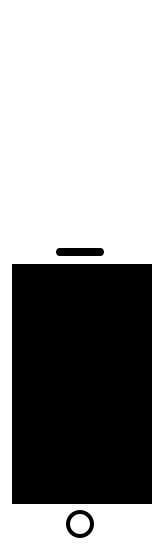
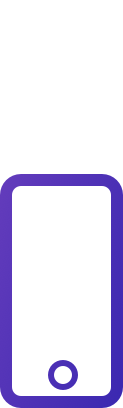
Add color illustrations, remove unused images, adjust colors.

diff --git a/index.html b/index.html
@@ -88,7 +88,7 @@
                                     <path class="svg-icon" d="M2.64509244,14.6383912 L5.22322051,14.6383912 L5.22322051,6.89284629 L2.64509244,6.89284629 L2.64509244,14.6383912 Z M5.39063143,4.50445058 C5.3794707,3.74552111 4.83259505,3.16516327 3.95089757,3.16516327 C3.06920009,3.16516327 2.48884225,3.74552111 2.48884225,4.50445058 C2.48884225,5.2410586 3.04687863,5.84373789 3.91741538,5.84373789 L3.92857611,5.84373789 C4.83259505,5.84373789 5.39063143,5.2410586 5.39063143,4.50445058 Z M9.21876099,7.98468694 L9.21876099,8.02007977 L9.19643953,8.02007977 C9.20374547,8.00839028 9.21118425,7.99658919 9.21876099,7.98468694 Z M9.21876099,7.98468694 L9.21876099,6.89284629 L6.64063292,6.89284629 C6.64063292,6.89284629 6.6741151,7.61829358 6.64063292,14.6383912 L9.21876099,14.6383912 L9.21876099,10.3080289 C9.21876099,10.0848144 9.22992172,9.8504391 9.29688608,9.68302818 C9.48661845,9.22543835 9.9107261,8.74552707 10.6250127,8.74552707 C11.5513531,8.74552707 11.9196571,9.4486529 11.9196571,10.4977613 L11.9196571,14.6383912 L14.4977851,14.6383912 L14.4977851,10.1964217 C14.4977851,7.81918668 13.2254622,6.71427464 11.5290316,6.71427464 C10.1752992,6.71427464 9.55841646,7.45112421 9.21876099,7.98468694 Z M17.1428776,3.4999851 L17.1428776,14.2142836 C17.1428776,15.9888393 15.7031437,17.4285731 13.928588,17.4285731 L3.21428955,17.4285731 C1.43973386,17.4285731 0,15.9888393 0,14.2142836 L0,3.4999851 C0,1.72542941 1.43973386,0.285695553 3.21428955,0.285695553 L13.928588,0.285695553 C15.7031437,0.285695553 17.1428776,1.72542941 17.1428776,3.4999851 Z" id="icon-linkedin" fill="#FFFFFF"></path>
                             </svg>
                         </span>
-                        <a href="#" class="title">linkedin.com/in/guerrix</a>
+                        <a href="http://linkedin.com/in/guerrix" class="title">linkedin.com/in/guerrix</a>
                     </li>
                     <li>
                         <span class="icon">
@@ -96,7 +96,7 @@
                                 <path class="svg-icon" d="M8.57143879,0.285695553 C13.3035873,0.285695553 17.1428776,4.12498584 17.1428776,8.85713434 C17.1428776,12.640621 14.6875175,15.8549105 11.2834956,16.9933048 C10.8482272,17.0714298 10.691977,16.8035724 10.691977,16.5803578 C10.691977,16.3013396 10.7031378,15.3749993 10.7031378,14.2254443 C10.7031378,13.4218719 10.4352803,12.9084785 10.1227799,12.640621 C12.0312643,12.4285672 14.0401953,11.7031199 14.0401953,8.41070524 C14.0401953,7.47320412 13.7053735,6.71427464 13.1584978,6.11159535 C13.2477836,5.8883808 13.5379626,5.01784405 13.069212,3.83480693 C12.3549254,3.61159237 10.7142985,4.71650441 10.7142985,4.71650441 C10.0334941,4.52677204 9.29688608,4.42632549 8.57143879,4.42632549 C7.8459915,4.42632549 7.10938348,4.52677204 6.42857909,4.71650441 C6.42857909,4.71650441 4.78795214,3.61159237 4.07366557,3.83480693 C3.60491501,5.01784405 3.89509393,5.8883808 3.98437975,6.11159535 C3.4375041,6.71427464 3.10268227,7.47320412 3.10268227,8.41070524 C3.10268227,11.6919592 5.10045251,12.4285672 7.00893693,12.640621 C6.76340092,12.8638355 6.54018637,13.2433003 6.46206127,13.7901759 C5.97098926,14.0133905 4.72098777,14.3928552 3.97321902,13.0758894 C3.50446846,12.2611563 2.65625317,12.1941919 2.65625317,12.1941919 C1.8191986,12.1830312 2.60044953,12.7187461 2.60044953,12.7187461 C3.15848591,12.9754428 3.54911137,13.9687476 3.54911137,13.9687476 C4.05134412,15.4977673 6.43973982,14.9843738 6.43973982,14.9843738 C6.43973982,15.6986604 6.45090055,16.368304 6.45090055,16.5803578 C6.45090055,16.8035724 6.29465036,17.0714298 5.85938198,16.9933048 C2.45536007,15.8549105 0,12.640621 0,8.85713434 C0,4.12498584 3.83929029,0.285695553 8.57143879,0.285695553 Z M3.24777173,12.5959781 C3.22545027,12.640621 3.15848591,12.6517817 3.10268227,12.6182995 C3.0357179,12.5848174 3.00223572,12.5290137 3.02455718,12.4843708 C3.04687863,12.4508886 3.10268227,12.4397279 3.16964664,12.4620494 C3.236611,12.4955315 3.27009318,12.5513352 3.24777173,12.5959781 Z M3.59375428,12.9754428 C3.54911137,13.0200857 3.47098628,12.9977643 3.41518264,12.9419606 C3.359379,12.8749963 3.34821828,12.7968712 3.39286119,12.763389 C3.4375041,12.7187461 3.51562919,12.7410675 3.57143283,12.7968712 C3.62723647,12.8638355 3.63839719,12.9419606 3.59375428,12.9754428 Z M3.92857611,13.4776756 C3.8839332,13.5111577 3.79464738,13.4776756 3.73884374,13.3995505 C3.6830401,13.3214254 3.6830401,13.2321396 3.73884374,13.1986574 C3.79464738,13.1540145 3.8839332,13.1874966 3.92857611,13.2656217 C3.98437975,13.3437468 3.98437975,13.4330327 3.92857611,13.4776756 Z M4.39732667,13.9464261 C4.35268376,14.0022298 4.25223721,13.991069 4.17411212,13.9129439 C4.09598703,13.8459796 4.07366557,13.745533 4.12946921,13.7008901 C4.17411212,13.6450865 4.27455867,13.6562472 4.35268376,13.7343723 C4.41964813,13.8013367 4.44196958,13.9017832 4.39732667,13.9464261 Z M5.03348814,14.2254443 C5.01116669,14.2924087 4.91072014,14.3258909 4.82143432,14.2924087 C4.72098777,14.2700872 4.65402341,14.1919621 4.67634486,14.1249978 C4.69866632,14.0580334 4.79911286,14.0245512 4.88839868,14.0468727 C4.98884523,14.0803549 5.0558096,14.1584799 5.03348814,14.2254443 Z M5.73661398,14.281248 C5.73661398,14.3482123 5.65848889,14.404016 5.55804234,14.404016 C5.44643506,14.4151767 5.36830997,14.359373 5.36830997,14.281248 C5.36830997,14.2142836 5.44643506,14.1584799 5.54688161,14.1584799 C5.64732816,14.1473192 5.73661398,14.2031229 5.73661398,14.281248 Z M6.38393618,14.1696407 C6.39509691,14.236605 6.32813254,14.3035694 6.227686,14.3258909 C6.12723945,14.3482123 6.03795363,14.3035694 6.0267929,14.236605 C6.01563217,14.1584799 6.08259654,14.0915156 6.18304309,14.0691941 C6.28348963,14.0580334 6.37277545,14.1026763 6.38393618,14.1696407 Z" id="icon-github" fill="#FFFFFF"></path>
                             </svg>
                         </span>
-                        <a href="#" class="title">github.com/guerrix</a>
+                        <a href="http://github.com/guerrix" class="title">github.com/guerrix</a>
                     </li>
                     <li>
                         <span class="icon">
@@ -104,7 +104,7 @@
                                 <path class="svg-icon" d="M18.0803787,2.41069928 C17.5893067,3.12498584 16.9754667,3.76114732 16.2723408,4.27454079 C16.2835016,4.43079097 16.2835016,4.58704116 16.2835016,4.74329134 C16.2835016,9.50892203 12.6562651,15 6.0267929,15 C3.98437975,15 2.08705606,14.4084814 0.491072014,13.3816945 C0.781250931,13.4151767 1.06026912,13.4263374 1.36160877,13.4263374 C3.04687863,13.4263374 4.59821977,12.8571403 5.83706053,11.886157 C4.25223721,11.8526748 2.92411063,10.8147272 2.4665208,9.38615402 C2.68973535,9.4196362 2.9129499,9.44195766 3.14732518,9.44195766 C3.47098628,9.44195766 3.79464738,9.39731475 4.09598703,9.31918966 C2.44419934,8.98436783 1.20535858,7.53347324 1.20535858,5.78123901 L1.20535858,5.7365961 C1.68526987,6.00445356 2.24330625,6.17186448 2.83482481,6.19418593 C1.86384151,5.54686373 1.22768003,4.4419517 1.22768003,3.19195021 C1.22768003,2.52230655 1.40625168,1.90846654 1.71875205,1.37275161 C3.49330774,3.56025422 6.16072163,4.98882735 9.15179662,5.14507754 C9.09599299,4.87722008 9.0625108,4.59820189 9.0625108,4.3191837 C9.0625108,2.33257418 10.6696556,0.714268684 12.6674258,0.714268684 C13.7053735,0.714268684 14.6428746,1.14953706 15.3013575,1.8526629 C16.1160906,1.69641271 16.8973416,1.39507307 17.5893067,0.982126147 C17.3214492,1.81918072 16.7522521,2.52230655 16.0044834,2.96873566 C16.7299307,2.89061056 17.4330565,2.68971747 18.0803787,2.41069928 Z" id="icon-twitter" fill="#FFFFFF"></path>
                             </svg>
                         </span>
-                        <a href="#" class="title">twitter.com/guerrix</a>
+                        <a href="http://twitter.com/guerrix" class="title">twitter.com/guerrix</a>
                     </li>
                     <li>
                         <span class="icon">
@@ -112,7 +112,7 @@
                                 <path class="svg-icon" d="M6.66295437,3.55578874 L6.66295437,16.6473222 C6.66295437,16.9933048 6.49554346,17.3169659 6.11607872,17.3169659 C5.98214999,17.3169659 5.85938198,17.2834837 5.74777471,17.22768 L0.55803638,14.6272305 C0.245536007,14.4709803 0,14.0691941 0,13.7343723 L0,1.01114285 C0,0.732124656 0.133928731,0.475427922 0.435268376,0.475427922 C0.613840017,0.475427922 0.770090204,0.564713743 0.92634039,0.642838836 L6.62947219,3.4999851 C6.64063292,3.51114583 6.66295437,3.54462801 6.66295437,3.55578874 Z M7.37724094,4.68302222 L13.3370695,14.3482123 L7.37724094,11.3794588 L7.37724094,4.68302222 Z M20.0000238,4.88391532 L20.0000238,16.6473222 C20.0000238,17.0156262 19.78797,17.2723229 19.419666,17.2723229 C19.2299336,17.2723229 19.051362,17.2165193 18.8951118,17.1272335 L13.9732309,14.6718734 L20.0000238,4.88391532 Z M19.9665417,3.54462801 C19.9665417,3.58927092 14.1964455,12.9531214 13.7500164,13.6674079 L9.39733263,6.59150664 L13.0134084,0.709803201 C13.1361764,0.508910105 13.3593909,0.397302829 13.5937662,0.397302829 C13.6942128,0.397302829 13.7946593,0.419624284 13.8839451,0.464267194 L19.9218987,3.47766364 C19.9442202,3.48882437 19.9665417,3.51114583 19.9665417,3.54462801 Z" id="icon-medium" fill="#FFFFFF"></path>
                             </svg>
                         </span>
-                        <a href="#" class="title">medium.com/@guerrix</a>
+                        <a href="http://medium.com/@guerrix" class="title">medium.com/@guerrix</a>
                     </li>
                 </ul>
             </div>

diff --git a/style.css b/style.css
@@ -11,6 +11,10 @@ html{
     font-family: "Hind Madurai", sans-serif;
     font-weight: 300;
     line-height: 1.5;
+
+    --main-accent: #AF6FFC;
+    --secondary-accent: #3023AE;
+    --mid-accent: #7B51DC;
 }
 
 body{
@@ -24,14 +28,14 @@ body{
 a{
     color: #ddd;
     text-decoration: none;
-    background-image: linear-gradient(180deg, transparent 80%, #AF6FFC 90%, transparent 0), linear-gradient(180deg, transparent 80%, #444 90%, transparent 0);
+    background-image: linear-gradient(180deg, transparent 80%, var(--main-accent) 90%, transparent 0), linear-gradient(180deg, transparent 80%, #444 90%, transparent 0);
     background-size: 0 100%, 100% 100%;
     background-repeat: no-repeat;
     transition: background-size 0.2s ease,
     color 0.2s ease;
 }
 a:hover{
-    color: #AF6FFC;
+    color: var(--main-accent);
     background-size: 100% 100%, 100% 100%;
 }
 
@@ -180,8 +184,8 @@ header img{
     text-align: center;
     margin: 50px -50px 0 -50px;
     padding: 25px 50px;
-    background-color: #3023AE;
-    background-image: linear-gradient(-30deg, #3023AE 0%, #C86DD7 100%);
+    background-color: var(--secondary-accent);
+    background-image: linear-gradient(-30deg, var(--secondary-accent) 0%, var(--main-accent) 100%);
     color: #fff;
 
 }
@@ -241,7 +245,7 @@ header img{
 }
 
 .social li:hover .svg-icon{
-    fill: #AF6FFC;
+    fill: var(--main-accent);
 }
 
 .blog .date{
@@ -251,7 +255,7 @@ header img{
 }
 
 .blog li:hover .date{
-    color: #AF6FFC;
+    color: var(--main-accent);
     opacity: 1;
 }
 
@@ -268,7 +272,8 @@ footer{
     padding-right: 0;
     width: 1000px;
     margin: 0 auto;
-    border-top: 1px solid #444;
+    background: linear-gradient(#171717, #000);
+    box-shadow: 0 2px 35px rgba(0, 0, 0, 0.1) inset;
 }
 
 footer .email{
@@ -286,7 +291,8 @@ footer .button{
     padding: 10px 20px;
     display: inline-block;
     color: #fff;
-    background: linear-gradient(#AF6FFC, rgb(137, 79, 207));
+    background-image: linear-gradient(-30deg, var(--secondary-accent) 0%, var(--mid-accent) 100%);
+    background-size: 100% 100%;
     border-radius: 10px;
     margin-top: .5rem;
     box-shadow: 0 2px 35px rgba(0, 0, 0, 0.2);
@@ -402,10 +408,10 @@ body.lightmode{
 
 .lightmode a{
     color: #111;
-    background-image: linear-gradient(180deg, transparent 80%, #AF6FFC 90%, transparent 0), linear-gradient(180deg, transparent 80%, #eee 90%, transparent 0);
+    background-image: linear-gradient(180deg, transparent 80%, var(--main-accent) 90%, transparent 0), linear-gradient(180deg, transparent 80%, #eee 90%, transparent 0);
 }
 .lightmode a:hover{
-    color: #AF6FFC;
+    color: var(--main-accent);
     background-size: 100% 100%, 100% 100%;
 }
 
@@ -440,11 +446,12 @@ body.lightmode{
 /* footer */
 
 .lightmode footer{
-    border-top: 1px solid #eee;
+    box-shadow: 0 2px 35px rgba(0, 0, 0, 0.1) inset;
+    background: linear-gradient(transparent, #eee);
 }
 
 .lightmode footer .button{
-    background: linear-gradient(#AF6FFC, rgb(137, 79, 207));
+    background-image: linear-gradient(-30deg, var(--secondary-accent) 0%, var(--mid-accent) 100%);
     color: #fff;    
 }
 

diff --git a/js/main.js b/js/main.js
@@ -3,32 +3,15 @@ $(function(){
         e.preventDefault();
         if($('body').hasClass('lightmode')){
             $('body').removeClass('lightmode');
-            lightImgs();
             localStorage.setItem('jGuerraLightMode', 'FALSE');
         }else{
             $('body').addClass('lightmode');
-            darkImgs();
             localStorage.setItem('jGuerraLightMode', 'TRUE');
         }
     });
 
-    function darkImgs(){
-        $('.idevice').each(function(){
-            $(this).attr('src', $(this).attr('src').replace('.png', '-dark.png'));
-        });
-    }
-
-    function lightImgs(){
-        $('.idevice').each(function(){
-            $(this).attr('src', $(this).attr('src').replace('-dark.png', '.png'));
-        });
-    }
-
     var lightmode = localStorage.getItem('jGuerraLightMode');
     if(lightmode == 'TRUE'){
         $('body').addClass('lightmode');
-        darkImgs();
-    }else{
-        lightImgs();
     }
 });
